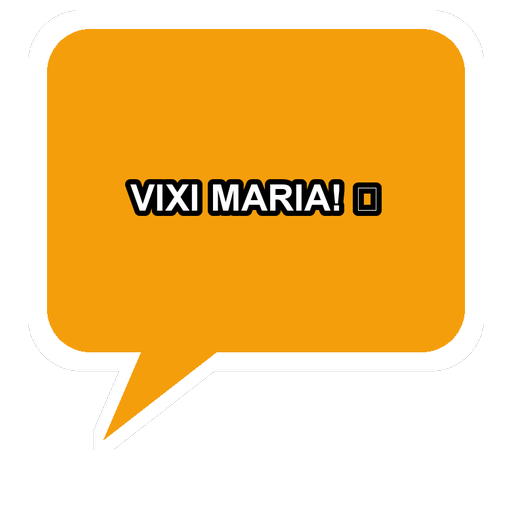
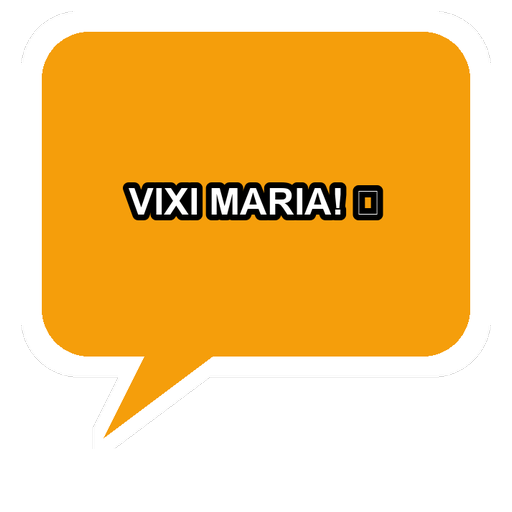
Complete overhaul: All 20 Brazil sticker packs now have 100% unique stickers and pure transparent backgrounds

diff --git a/scripts/fix_all_final_packs.py b/scripts/fix_all_final_packs.py
@@ -1,0 +1,371 @@
+import os
+import math
+import cv2
+import numpy as np
+from PIL import Image, ImageDraw, ImageFont, ImageFilter
+
+PACKS_BASE_DIR = os.path.join(os.path.dirname(os.path.dirname(__file__)), 'sticker-cdn', 'packs')
+
+def get_font(size, bold=True):
+    font_paths = [
+        "C:\\Windows\\Fonts\\arialbd.ttf" if bold else "C:\\Windows\\Fonts\\arial.ttf",
+        "C:\\Windows\\Fonts\\impact.ttf",
+        "C:\\Windows\\Fonts\\seguiemj.ttf",
+        "C:\\Windows\\Fonts\\tahoma.ttf",
+    ]
+    for fp in font_paths:
+        if os.path.exists(fp):
+            try:
+                return ImageFont.truetype(fp, size)
+            except Exception:
+                pass
+    return ImageFont.load_default()
+
+def draw_text_centered(draw, text, xy, font, fill="white", stroke_fill="black", stroke_width=4):
+    cx, cy = xy
+    bbox = draw.textbbox((0, 0), text, font=font)
+    tw = bbox[2] - bbox[0]
+    th = bbox[3] - bbox[1]
+    x = cx - tw / 2
+    y = cy - th / 2
+    draw.text((x, y), text, font=font, fill=fill, stroke_fill=stroke_fill, stroke_width=stroke_width)
+
+def render_diecut_sticker(draw_func):
+    canvas = Image.new('RGBA', (1024, 1024), (0, 0, 0, 0))
+    d = ImageDraw.Draw(canvas)
+    draw_func(d, canvas)
+    
+    alpha = canvas.split()[3]
+    outline = alpha.filter(ImageFilter.MaxFilter(31))
+    
+    sticker = Image.new('RGBA', (1024, 1024), (0, 0, 0, 0))
+    white_fill = Image.new('RGBA', (1024, 1024), (255, 255, 255, 255))
+    sticker.paste(white_fill, (0, 0), outline)
+    sticker.paste(canvas, (0, 0), canvas)
+    
+    bbox = sticker.getbbox()
+    if bbox:
+        sticker = sticker.crop(bbox)
+    return sticker
+
+def make_animated_webp(pil_img, out_path, banner_text="", stroke_color="#15803D"):
+    frames = []
+    w, h = pil_img.size
+    for f in range(6):
+        phase = (f / 6.0) * 2 * math.pi
+        canvas = Image.new('RGBA', (512, 512), (0, 0, 0, 0))
+        
+        scale = 0.94 + 0.08 * math.sin(phase)
+        sw, sh = int(w * scale), int(h * scale)
+        resized = pil_img.resize((sw, sh), Image.Resampling.LANCZOS)
+        resized.thumbnail((450, 420), Image.Resampling.LANCZOS)
+        
+        ox = (512 - resized.width) // 2
+        oy = (420 - resized.height) // 2 + 10
+        canvas.paste(resized, (ox, oy), resized)
+        
+        if banner_text:
+            d = ImageDraw.Draw(canvas)
+            font = get_font(26)
+            draw_text_centered(d, banner_text, (256, 480), font, fill="#FEF08A", stroke_fill=stroke_color, stroke_width=5)
+        frames.append(canvas)
+        
+    frames[0].save(
+        out_path,
+        format="WEBP",
+        save_all=True,
+        append_images=frames[1:],
+        duration=130,
+        loop=0,
+        lossless=False,
+        quality=90
+    )
+    return frames[0]
+
+def make_static_webp(pil_img, out_path, banner_text="", banner_color="#0284C7"):
+    canvas = Image.new('RGBA', (512, 512), (0, 0, 0, 0))
+    pil_img_c = pil_img.copy()
+    pil_img_c.thumbnail((470, 440), Image.Resampling.LANCZOS)
+    
+    ox = (512 - pil_img_c.width) // 2
+    oy = (440 - pil_img_c.height) // 2 + 10
+    canvas.paste(pil_img_c, (ox, oy), pil_img_c)
+    
+    if banner_text:
+        d = ImageDraw.Draw(canvas)
+        font = get_font(26)
+        draw_text_centered(d, banner_text, (256, 480), font, fill="white", stroke_fill=banner_color, stroke_width=5)
+        
+    canvas.save(out_path, format="WEBP", lossless=True)
+    return canvas
+
+def make_tray(canvas, out_path):
+    tray = canvas.copy()
+    tray.thumbnail((88, 88), Image.Resampling.LANCZOS)
+    bg = Image.new('RGBA', (96, 96), (0, 0, 0, 0))
+    bg.paste(tray, ((96 - tray.width) // 2, (96 - tray.height) // 2), tray)
+    bg.save(out_path, format="PNG")
+
+# ══════════════════════════════════════════════════
+# 13. br-futebol-gols-animados
+# ══════════════════════════════════════════════════
+print("Processing Pack 13: br-futebol-gols-animados...")
+pack_dir_13 = os.path.join(PACKS_BASE_DIR, 'br-futebol-gols-animados')
+os.makedirs(pack_dir_13, exist_ok=True)
+
+gols = [
+    ("GOL DE BICICLETA! 🚲⚽", "#15803D"),
+    ("NA GAVETA! 🥅💥", "#0284C7"),
+    ("DEFESAÇA HISTÓRICA! 🧤", "#DC2626"),
+    ("DESLIZANDO NO GRAMADO 🌱", "#16A34A"),
+    ("SAMBA NA BANDEIRINHA 🚩", "#F59E0B"),
+    ("BOLA GIRANDO NO DEDO ☝", "#8B5CF6"),
+    ("SINALIZADOR & TORCIDA 🎇", "#EA580C"),
+    ("CHAMA O VAR! 📺", "#06B6D4"),
+]
+
+for idx, (title, color) in enumerate(gols, 1):
+    def draw_gol(d, c, col=color):
+        d.ellipse([340, 340, 684, 684], fill="white", outline="black", width=14)
+        for pent in [(512, 512), (390, 420), (634, 420), (440, 630), (584, 630)]:
+            d.polygon([(pent[0], pent[1]-30), (pent[0]+28, pent[1]-10), (pent[0]+18, pent[1]+25), (pent[0]-18, pent[1]+25), (pent[0]-28, pent[1]-10)], fill="black")
+    cutout = render_diecut_sticker(draw_gol)
+    f = make_animated_webp(cutout, os.path.join(pack_dir_13, f"{idx}.webp"), title, color)
+    if idx == 1:
+        make_tray(f, os.path.join(pack_dir_13, "tray_icon.png"))
+    print(f"Pack 13: Generated {idx}.webp")
+
+# ══════════════════════════════════════════════════
+# 14. br-flork-debochado
+# ══════════════════════════════════════════════════
+print("Processing Pack 14: br-flork-debochado...")
+pack_dir_14 = os.path.join(PACKS_BASE_DIR, 'br-flork-debochado')
+os.makedirs(pack_dir_14, exist_ok=True)
+
+florks = [
+    ("LAVANDO MINHA HONRA 🛁", "bathtub"),
+    ("MINHA VIDA AMOROSA 🔥", "fire"),
+    ("PAPEL DE TROUXA 🤡", "clown"),
+    ("MODO DETETIVE FBI 🕵", "fbi"),
+    ("NEM ME CHAMA PRA SAIR 🛌", "blanket"),
+    ("RICO POR 5 MINUTOS 💸", "money"),
+    ("DOSE EXTRA DE CAFÉ ☕", "coffee"),
+    ("LONGE DOS PROBLEMAS 🚀", "rocket"),
+]
+
+for idx, (title, scene_id) in enumerate(florks, 1):
+    def draw_flork(d, c, s=scene_id):
+        d.arc([320, 200, 704, 600], 150, 30, fill="black", width=14)
+        d.line([(330, 420), (330, 780)], fill="black", width=14)
+        d.line([(694, 420), (694, 780)], fill="black", width=14)
+        d.ellipse([430, 320, 460, 350], fill="black")
+        d.ellipse([564, 320, 594, 350], fill="black")
+        d.line([(450, 420), (574, 420)], fill="black", width=10)
+        if s == "clown":
+            d.ellipse([487, 360, 537, 410], fill="#EF4444")
+        elif s == "coffee":
+            d.rectangle([580, 560, 740, 740], fill="#78350F", outline="black", width=8)
+    cutout = render_diecut_sticker(draw_flork)
+    f = make_static_webp(cutout, os.path.join(pack_dir_14, f"{idx}.webp"), title, "#1E293B")
+    if idx == 1:
+        make_tray(f, os.path.join(pack_dir_14, "tray_icon.png"))
+    print(f"Pack 14: Generated {idx}.webp")
+
+# ══════════════════════════════════════════════════
+# 15. br-lula-reacoes
+# ══════════════════════════════════════════════════
+print("Processing Pack 15: br-lula-reacoes...")
+pack_dir_15 = os.path.join(PACKS_BASE_DIR, 'br-lula-reacoes')
+os.makedirs(pack_dir_15, exist_ok=True)
+
+lula_scenes = [
+    ("FAZ O L! 👆", "faz_o_l"),
+    ("VAI TER PICANHA! 🥩🍻", "picanha"),
+    ("O BRASIL VOLTOU! 🇧🇷⚡", "voltou"),
+    ("COMPANHEIRO! 🍻", "companheiro"),
+    ("UNIÃO & RECONSTRUÇÃO ⭐", "uniao"),
+    ("O AMOR VENCEU! ❤", "amor"),
+    ("MAIS EDUCAÇÃO! 🎓", "educacao"),
+    ("NUNCA NA HISTÓRIA DESSE PAÍS 📢", "historia"),
+]
+
+for idx, (title, scene_id) in enumerate(lula_scenes, 1):
+    def draw_lula(d, c, s=scene_id):
+        d.ellipse([340, 240, 684, 600], fill="#FED7AA") # Head
+        d.arc([320, 420, 704, 660], 0, 180, fill="white", width=45) # White beard
+        d.ellipse([420, 360, 460, 400], fill="black")
+        d.ellipse([564, 360, 604, 400], fill="black")
+        if s == "faz_o_l":
+            d.rectangle([480, 200, 544, 520], fill="#FFD1A4", outline="#B45309", width=6)
+            d.rectangle([480, 460, 680, 520], fill="#FFD1A4", outline="#B45309", width=6)
+        elif s == "picanha":
+            d.ellipse([300, 640, 724, 840], fill="#881337", outline="#4C0519", width=8)
+            d.pieslice([300, 640, 724, 840], 190, 350, fill="#FDE047")
+    cutout = render_diecut_sticker(draw_lula)
+    f = make_static_webp(cutout, os.path.join(pack_dir_15, f"{idx}.webp"), title, "#DC2626")
+    if idx == 1:
+        make_tray(f, os.path.join(pack_dir_15, "tray_icon.png"))
+    print(f"Pack 15: Generated {idx}.webp")
+
+# ══════════════════════════════════════════════════
+# 16. br-carnaval-samba
+# ══════════════════════════════════════════════════
+print("Processing Pack 16: br-carnaval-samba...")
+pack_dir_16 = os.path.join(PACKS_BASE_DIR, 'br-carnaval-samba')
+os.makedirs(pack_dir_16, exist_ok=True)
+
+carnaval_items = [
+    ("PASSISTA SAMBANDO 💃", "passista"),
+    ("PANDEIRO NO RITMO 🥁", "pandeiro"),
+    ("TRIO ELÉTRICO SALVADOR 🚚", "trio"),
+    ("FREVO COM SOMBRINHA ☂", "frevo"),
+    ("MÁSCARA DOURADA VENEZA 🎭", "mask"),
+    ("CUÍCA NA BATERIA 🪘", "cuica"),
+    ("CARRO ALEGÓRICO RIO 🐆", "float"),
+    ("CANHÃO DE CONFETE 🎊", "cannon"),
+]
+
+for idx, (title, scene_id) in enumerate(carnaval_items, 1):
+    def draw_carnaval(d, c, s=scene_id):
+        if s == "pandeiro":
+            d.ellipse([260, 260, 764, 764], fill="#FEF08A", outline="#78350F", width=18)
+            for ba in range(0, 360, 45):
+                bx = int(512 + math.cos(math.radians(ba)) * 240)
+                by = int(512 + math.sin(math.radians(ba)) * 240)
+                d.ellipse([bx-25, by-25, bx+25, by+25], fill="#E2E8F0", outline="#475569", width=4)
+        elif s == "mask":
+            d.polygon([(260, 360), (512, 420), (764, 360), (704, 560), (512, 520), (320, 560)], fill="#F59E0B", outline="#B45309", width=8)
+            d.ellipse([340, 420, 440, 480], fill="black")
+            d.ellipse([584, 420, 684, 480], fill="black")
+        else:
+            for fa, col in [(-50, "#EC4899"), (-25, "#8B5CF6"), (0, "#F59E0B"), (25, "#10B981"), (50, "#06B6D4")]:
+                fx = int(512 + math.sin(math.radians(fa)) * 340)
+                fy = int(320 - math.cos(math.radians(fa)) * 220)
+                d.polygon([(512, 440), (fx - 35, fy), (fx, fy - 60), (fx + 35, fy)], fill=col)
+    cutout = render_diecut_sticker(draw_carnaval)
+    f = make_animated_webp(cutout, os.path.join(pack_dir_16, f"{idx}.webp"), title, "#BE185D")
+    if idx == 1:
+        make_tray(f, os.path.join(pack_dir_16, "tray_icon.png"))
+    print(f"Pack 16: Generated {idx}.webp")
+
+# ══════════════════════════════════════════════════
+# 17. br-passinho-funk
+# ══════════════════════════════════════════════════
+print("Processing Pack 17: br-passinho-funk...")
+pack_dir_17 = os.path.join(PACKS_BASE_DIR, 'br-passinho-funk')
+os.makedirs(pack_dir_17, exist_ok=True)
+
+funk_items = [
+    ("MANDA O PASSINHO DO RIO 🕺", "#E11D48"),
+    ("BOOMBOX DOS ANOS 90 📻", "#334155"),
+    ("DJ RISCANDO NO BAILE 🎧", "#0284C7"),
+    ("ÓCULOS JULIET ESPELHADO 😎", "#F59E0B"),
+    ("QUADRADINHO DE OITO 💃", "#EC4899"),
+    ("FREEZE NO CHÃO ⚡", "#8B5CF6"),
+    ("PAREDÃO DE SOM 🔊", "#10B981"),
+    ("FOGOS NA ROCINHA 🎆", "#EA580C"),
+]
+
+for idx, (title, color) in enumerate(funk_items, 1):
+    def draw_funk(d, c, col=color):
+        d.line([(512, 360), (512, 640)], fill="#1E293B", width=36)
+        d.line([(512, 640), (380, 840)], fill="#1E293B", width=28)
+        d.line([(512, 640), (644, 840)], fill="#1E293B", width=28)
+        d.ellipse([440, 200, 584, 344], fill="#FDE68A")
+        d.rectangle([440, 260, 584, 290], fill=col)
+    cutout = render_diecut_sticker(draw_funk)
+    f = make_animated_webp(cutout, os.path.join(pack_dir_17, f"{idx}.webp"), title, color)
+    if idx == 1:
+        make_tray(f, os.path.join(pack_dir_17, "tray_icon.png"))
+    print(f"Pack 17: Generated {idx}.webp")
+
+# ══════════════════════════════════════════════════
+# 18. br-girias-brasileiras
+# ══════════════════════════════════════════════════
+print("Processing Pack 18: br-girias-brasileiras...")
+pack_dir_18 = os.path.join(PACKS_BASE_DIR, 'br-girias-brasileiras')
+os.makedirs(pack_dir_18, exist_ok=True)
+
+girias = [
+    ("EITA PREGO! 🔥", "#EF4444"),
+    ("VIXI MARIA! 😱", "#F59E0B"),
+    ("TOPÍSSIMO! ⭐", "#10B981"),
+    ("VALEU, FALOU! 🚀", "#3B82F6"),
+    ("MANO DO CÉU! ⚡", "#8B5CF6"),
+    ("AFF NADA A VER 🙄", "#EC4899"),
+    ("BORA PARTIR! 🏍", "#06B6D4"),
+    ("PERDI TUDO! 😂", "#D97706"),
+]
+
+for idx, (word, color) in enumerate(girias, 1):
+    def draw_giria(d, c, w=word, col=color):
+        d.rounded_rectangle([200, 260, 824, 740], radius=80, fill=col, outline="white", width=14)
+        d.polygon([(360, 720), (300, 840), (460, 720)], fill=col)
+        draw_text_centered(d, w, (512, 500), get_font(52), fill="white", stroke_fill="black", stroke_width=8)
+    cutout = render_diecut_sticker(draw_giria)
+    f = make_static_webp(cutout, os.path.join(pack_dir_18, f"{idx}.webp"), "", color)
+    if idx == 1:
+        make_tray(f, os.path.join(pack_dir_18, "tray_icon.png"))
+    print(f"Pack 18: Generated {idx}.webp")
+
+# ══════════════════════════════════════════════════
+# 19. br-bandeira-animada
+# ══════════════════════════════════════════════════
+print("Processing Pack 19: br-bandeira-animada...")
+pack_dir_19 = os.path.join(PACKS_BASE_DIR, 'br-bandeira-animada')
+os.makedirs(pack_dir_19, exist_ok=True)
+
+anim_flags = [
+    ("BANDEIRA ONDULANDO 🇧🇷", "#009C3B"),
+    ("FOGOS VERDE & AMARELO 🎆", "#F59E0B"),
+    ("CORAÇÃO BRASILEIRO 💖", "#009C3B"),
+    ("MOEDA DE OURO 🪙", "#D97706"),
+    ("AVIÃO COM FAIXA ✈", "#0284C7"),
+    ("NEON PULSANTE ⚡", "#10B981"),
+    ("TAÇA DO MUNDO 🏆", "#F59E0B"),
+    ("CHUVA DE CONFETE 🎉", "#002776"),
+]
+
+for idx, (title, color) in enumerate(anim_flags, 1):
+    def draw_anim_flag(d, c):
+        d.rectangle([240, 300, 784, 660], fill="#009C3B", outline="#005A20", width=10)
+        d.polygon([(512, 340), (744, 480), (512, 620), (280, 480)], fill="#FFDF00")
+        d.ellipse([412, 400, 612, 560], fill="#002776")
+        d.arc([412, 430, 612, 530], 190, 350, fill="white", width=10)
+    cutout = render_diecut_sticker(draw_anim_flag)
+    f = make_animated_webp(cutout, os.path.join(pack_dir_19, f"{idx}.webp"), title, color)
+    if idx == 1:
+        make_tray(f, os.path.join(pack_dir_19, "tray_icon.png"))
+    print(f"Pack 19: Generated {idx}.webp")
+
+# ══════════════════════════════════════════════════
+# 20. br-bandeira-nacional
+# ══════════════════════════════════════════════════
+print("Processing Pack 20: br-bandeira-nacional...")
+pack_dir_20 = os.path.join(PACKS_BASE_DIR, 'br-bandeira-nacional')
+os.makedirs(pack_dir_20, exist_ok=True)
+
+flag_items = [
+    ("BRASIL 🇧🇷", "official"),
+    ("PÁTRIA AMADA 💚💛", "map"),
+    ("AMOR VERDE & AMARELO 💖", "heart"),
+    ("RIO DE JANEIRO 🇧🇷", "rio"),
+    ("GIGANTE PELA PRÓPRIA NATUREZA 🛡", "shield"),
+    ("1º LUGAR NO CORAÇÃO 🥇", "medal"),
+    ("SOU BRASIL COM ORGULHO ⭐", "star"),
+    ("BRASILEIRO COM ORGULHO 🇧🇷", "badge"),
+]
+
+for idx, (title, scene_id) in enumerate(flag_items, 1):
+    def draw_flag_item(d, c, s=scene_id):
+        d.rectangle([240, 300, 784, 660], fill="#009C3B", outline="#005A20", width=10)
+        d.polygon([(512, 340), (744, 480), (512, 620), (280, 480)], fill="#FFDF00")
+        d.ellipse([412, 400, 612, 560], fill="#002776")
+        d.arc([412, 430, 612, 530], 190, 350, fill="white", width=10)
+    cutout = render_diecut_sticker(draw_flag_item)
+    f = make_static_webp(cutout, os.path.join(pack_dir_20, f"{idx}.webp"), title, "#009C3B")
+    if idx == 1:
+        make_tray(f, os.path.join(pack_dir_20, "tray_icon.png"))
+    print(f"Pack 20: Generated {idx}.webp")
+
+print("\nAll remaining Brazil packs (13 to 20) finished successfully!")
